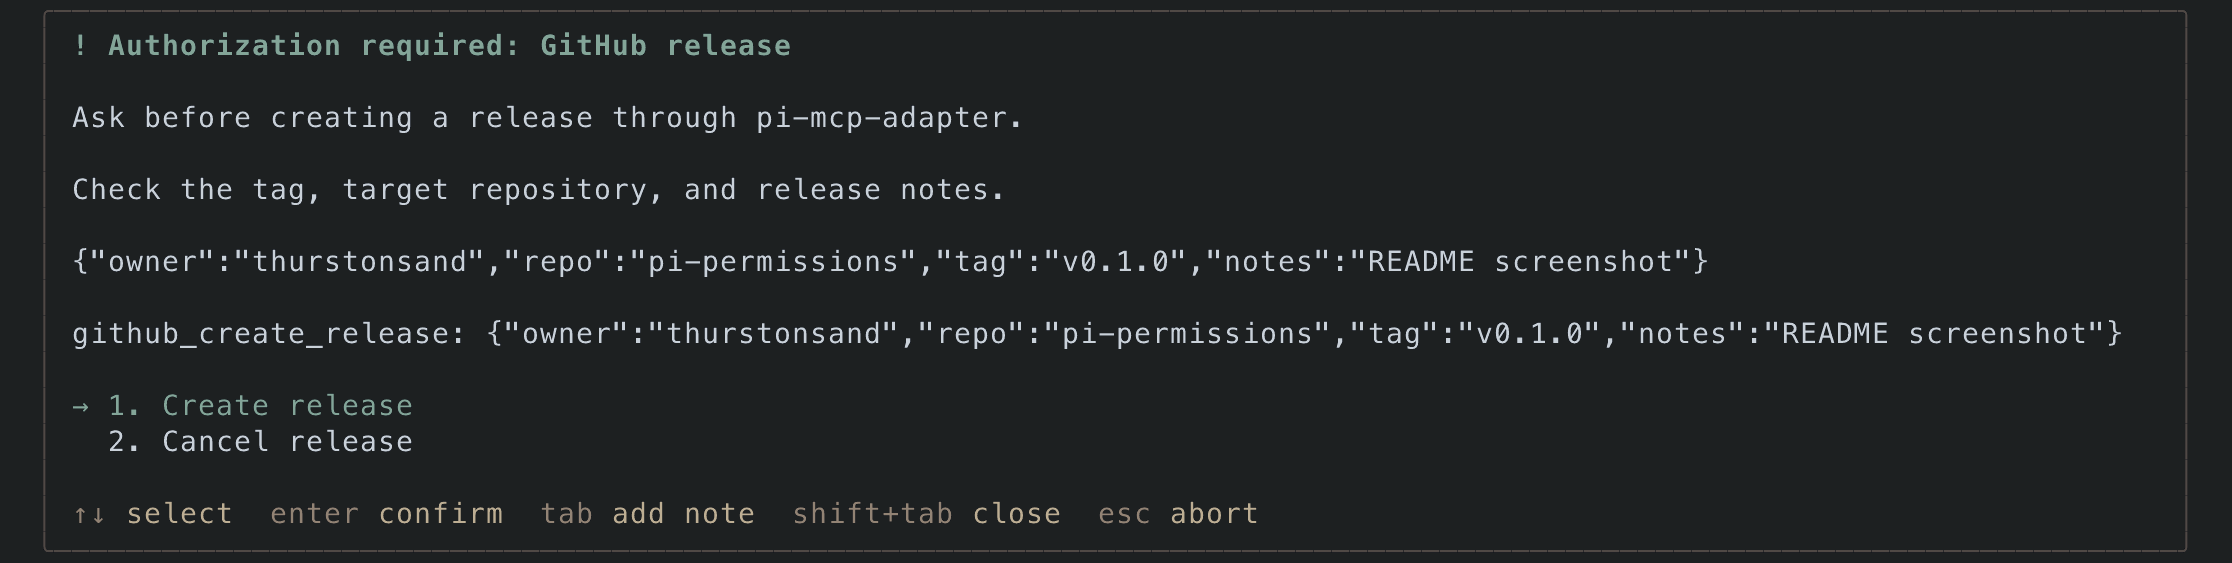
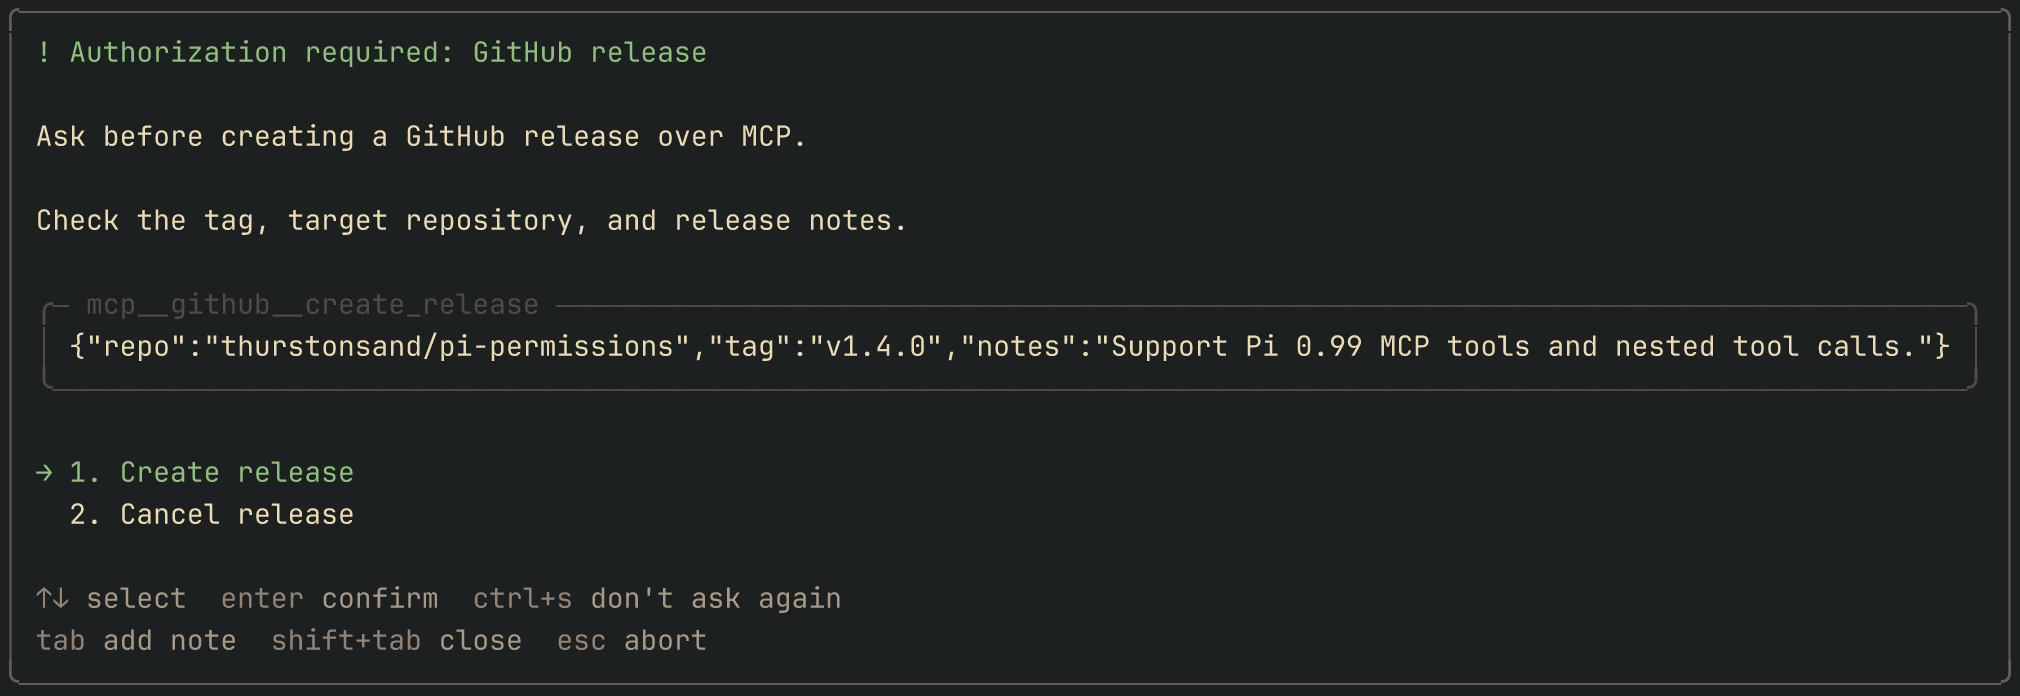
docs: retarget the GitHub release example at built-in MCP
Amp-Thread-ID: https://ampcode.com/threads/T-01a0ef54-64f7-74a8-8b9c-2d5b2ee40a5c

diff --git a/examples/github-release.ts b/examples/github-release.ts
@@ -3,13 +3,13 @@ import { matchTool, type PermissionsAPI, request } from "@thurstonsand/pi-permis
 export default function permissions(api: PermissionsAPI) {
   api.onToolUse({
     name: "GitHub release",
-    description: "Ask before creating a release through pi-mcp-adapter.",
+    description: "Ask before creating a GitHub release over MCP.",
     handler(input) {
       return matchTool(input.tool, {
         custom: {
-          github_create_release(tool) {
+          mcp__github__create_release() {
             return request({
-              guidance: `Check the tag, target repository, and release notes.\n\n${tool.detail}`,
+              guidance: "Check the tag, target repository, and release notes.",
               approveLabel: "Create release",
               rejectLabel: "Cancel release",
             });

diff --git a/README.md b/README.md
@@ -231,9 +231,9 @@ export default function permissions(api: PermissionsAPI) {
 
 MCP servers that omit `readOnlyHint` are treated as able to change things, matching the MCP default.
 
-### [Ask before a pi-mcp-adapter tool](examples/github-release.ts)
+### [Ask before a specific MCP tool](examples/github-release.ts)
 
-[`pi-mcp-adapter`](https://github.com/nicobailon/pi-mcp-adapter) can expose MCP tools directly as Pi tools. If a GitHub MCP server exposes a direct tool named `github_create_release`, you can match it like any other Pi tool.
+Pi names MCP tools `mcp__<server>__<tool>`, after the server key in `mcp.json`. If a server named `github` exposes `create_release`, you can match it like any other Pi tool. This works for direct tools and for calls made from `codemode` alike.
 
 ```ts
 import {
@@ -245,13 +245,13 @@ import {
 export default function permissions(api: PermissionsAPI) {
   api.onToolUse({
     name: "GitHub release",
-    description: "Ask before creating a release through pi-mcp-adapter.",
+    description: "Ask before creating a GitHub release over MCP.",
     handler(input) {
       return matchTool(input.tool, {
         custom: {
-          github_create_release(tool) {
+          mcp__github__create_release() {
             return request({
-              guidance: `Check the tag, target repository, and release notes.\n\n${tool.detail}`,
+              guidance: "Check the tag, target repository, and release notes.",
               approveLabel: "Create release",
               rejectLabel: "Cancel release",
             });
